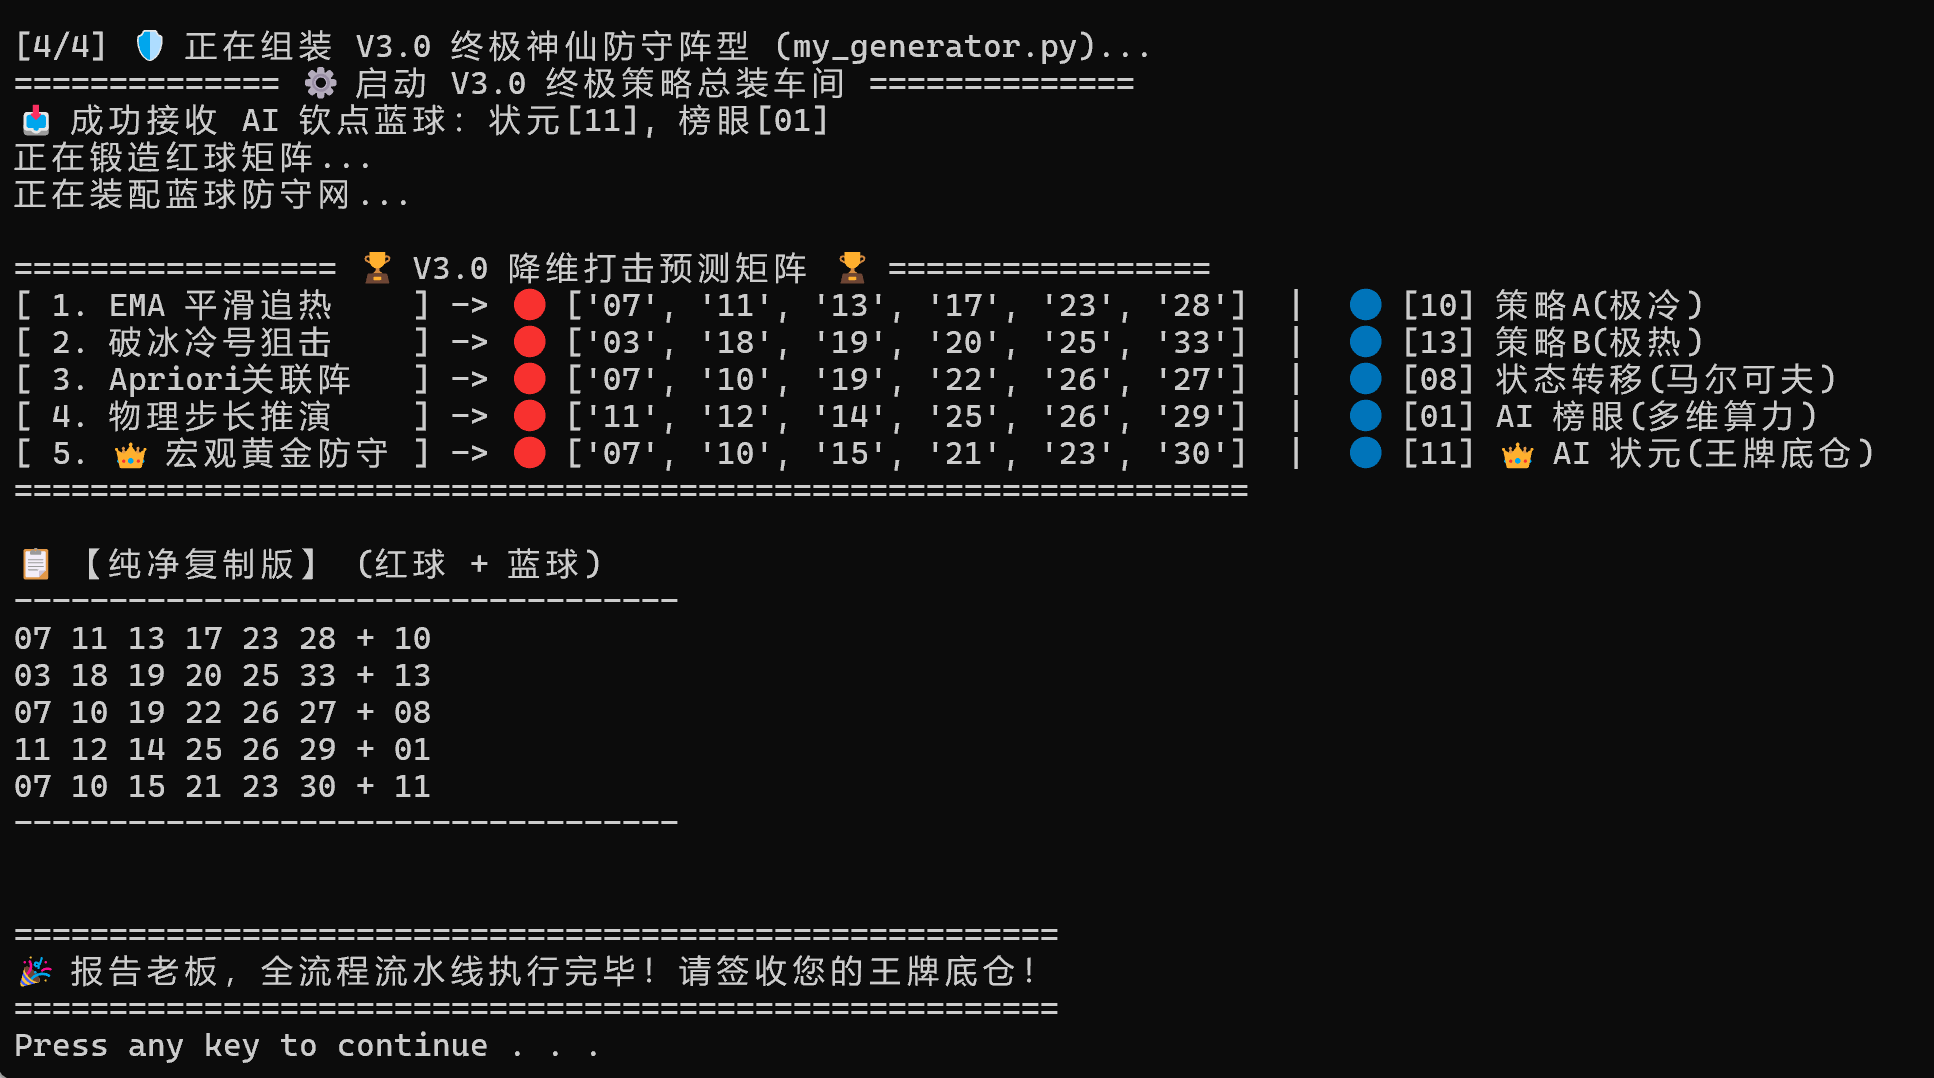
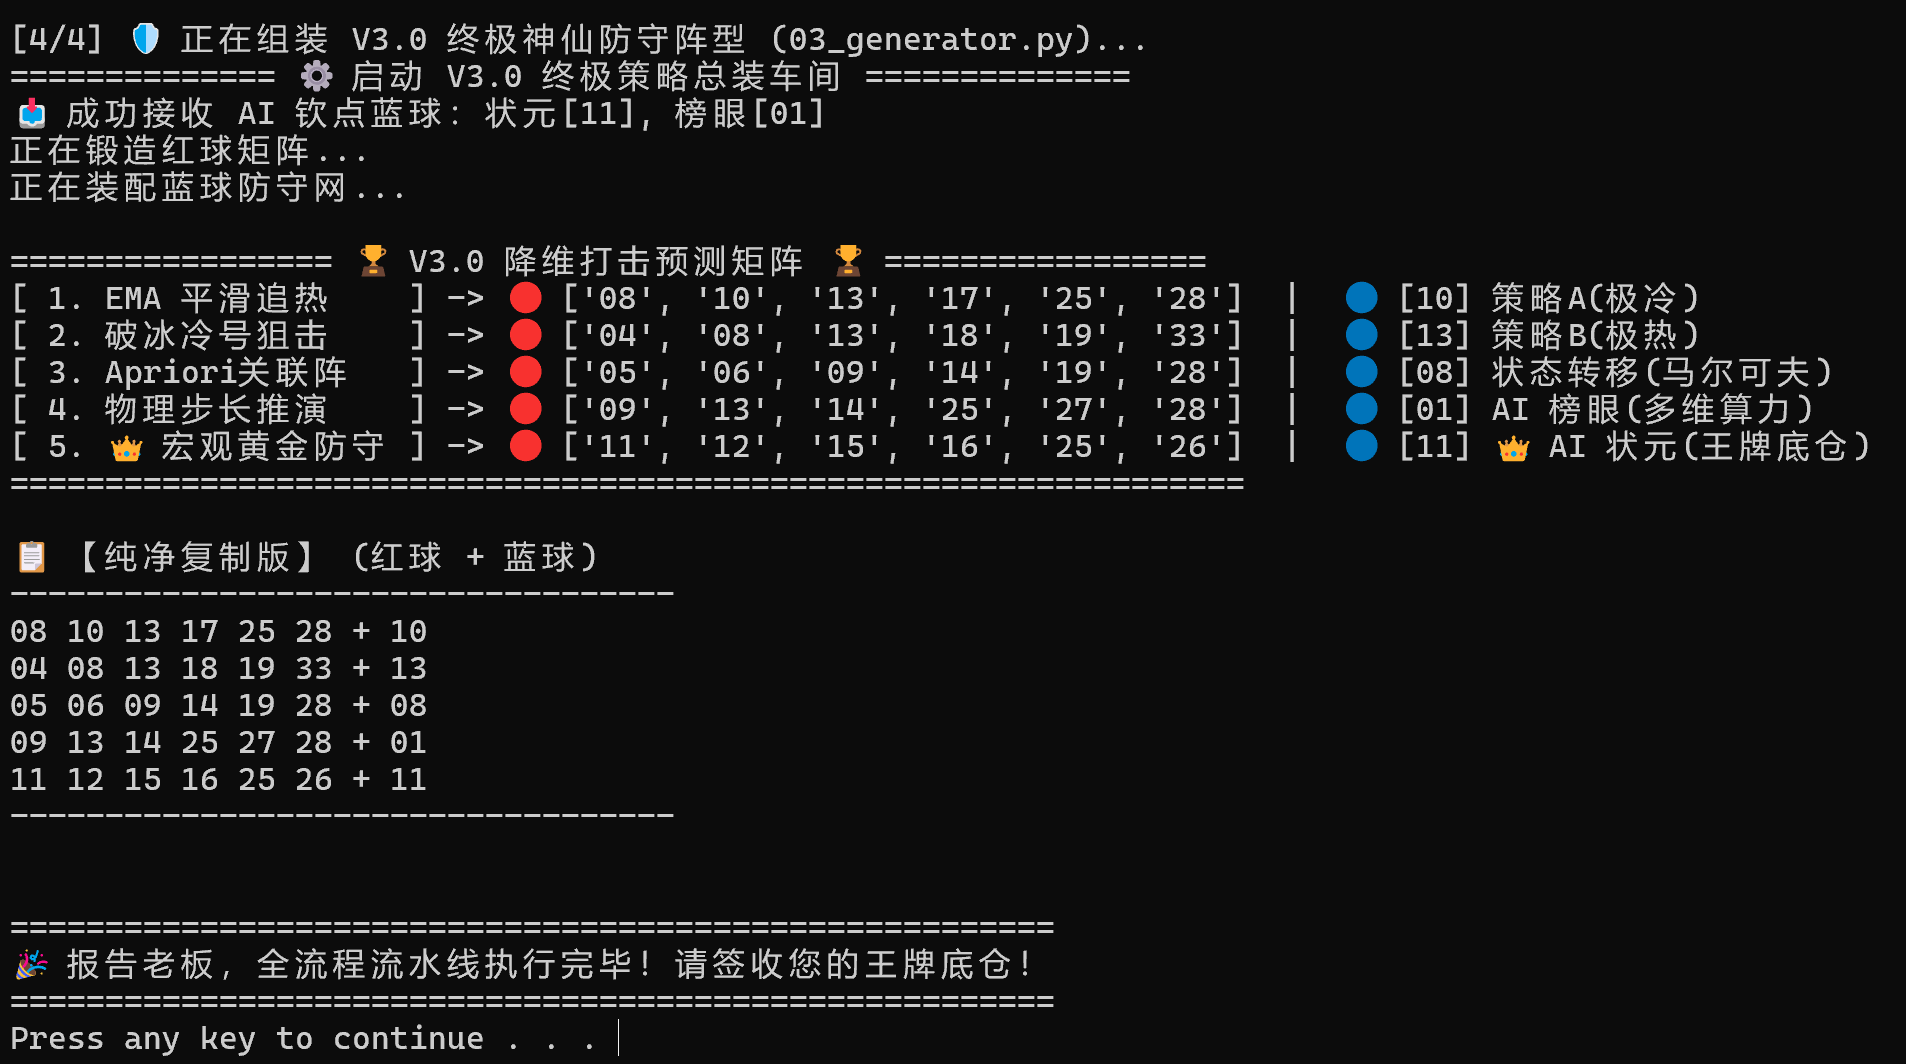
✨ 优化: 增加 VPN 代理冲突的异常捕获，更新并美化了README 指南

diff --git a/01_get_data.py b/01_get_data.py
@@ -1,75 +1,120 @@
-# -*- coding:utf-8 -*-
-"""
-V3.0 数据抓取引擎 (双色球专属极简版)
-"""
+import os
+import sys
+import time
 import requests
+import urllib3
 import pandas as pd
 from bs4 import BeautifulSoup
 from loguru import logger
-import os
 
-from config import name_path, data_file_name
-import urllib3
-
+# 禁用烦人的 SSL 证书警告 (因为使用了 verify=False)
 urllib3.disable_warnings(urllib3.exceptions.InsecureRequestWarning)
 
+# 500彩票网数据源
+BASE_URL = "https://datachart.500.com/ssq/"
 
-def get_url():
-    """获取 500彩票网 的数据接口"""
-    # 直接硬编码双色球 ssq 路径
-    url = "https://datachart.500.com/ssq/history/"
-    path = "newinc/history.php?start={}&end="
-    return url, path
+
+def safe_request(url):
+    """
+    🛡 核心防盾：带 VPN 冲突检测的网络请求包装器
+    """
+    try:
+        # 强制清空 Python 运行时的代理环境变量 (防呆不防傻)
+        os.environ["http_proxy"] = ""
+        os.environ["https_proxy"] = ""
+
+        # 发起请求
+        r = requests.get(url, verify=False, timeout=15)
+        r.raise_for_status()
+        r.encoding = 'gbk'  # 500彩票网是 GBK 编码
+        return r
+
+    except Exception as e:
+        error_msg = str(e)
+        # 精准捕获 ProxyError 或底层的 FileNotFoundError (urllib3 代理 Bug)
+        if "ProxyError" in error_msg or "FileNotFoundError" in error_msg or "Max retries exceeded" in error_msg:
+            logger.error("\n" + "!" * 65)
+            logger.error("🚨 [拦截警告] 发现网络代理冲突 (ProxyError)！")
+            logger.error("👉 案发原因：系统检测到您当前开启了 VPN (梯子) 或系统代理。")
+            logger.error("👉 目标阻断：500 彩票网是国内数据源，开启代理会导致底层握手崩溃。")
+            logger.error("🛠 解决方法：请在电脑右下角【彻底退出 VPN / 代理软件】，然后重新运行！")
+            logger.error("!" * 65 + "\n")
+        else:
+            logger.error(f"\n❌ 网络请求发生未知错误：\n{error_msg}\n请检查网络连接后重试。")
+
+        # 抛出异常后优雅退出程序，不显示满屏红字报错
+        sys.exit(1)
 
 
 def get_current_number():
-    """获取最新一期期号"""
-    url, _ = get_url()
-    r = requests.get(f"{url}history.shtml", verify=False)
-    r.encoding = "gb2312"
-    soup = BeautifulSoup(r.text, "lxml")
-    current_num = soup.find("div", class_="wrap_datachart").find("input", id="end")["value"]
-    return current_num
+    """获取最近一期的开奖期号"""
+    url = f"{BASE_URL}history/history.shtml"
+    r = safe_request(url)
+
+    soup = BeautifulSoup(r.text, 'lxml')
+    tbody = soup.find('tbody', id='tdata')
+    if not tbody:
+        logger.error("❌ 无法解析网页，500彩票网可能更新了页面结构！")
+        sys.exit(1)
+
+    # 获取第一行数据（最新一期）
+    latest_tr = tbody.find('tr')
+    issue = latest_tr.find_all('td')[0].text.strip()
+    return issue
 
 
-def spider(start, end):
-    """核心爬虫逻辑"""
-    url, path = get_url()
-    url = f"{url}{path.format(start)}{end}"
-    r = requests.get(url=url, verify=False)
-    r.encoding = "gb2312"
-    soup = BeautifulSoup(r.text, "lxml")
-    trs = soup.find("tbody", attrs={"id": "tdata"}).find_all("tr")
+def get_all_data():
+    """拉取全网历史开奖数据"""
+    logger.info("🕷 正在全网拉取最新开奖数据 (01_get_data.py)...")
 
-    data = []
+    # 获取近 10000 期的接口（相当于全量拉取）
+    url = f"{BASE_URL}history/newinc/history.php?start=00001&end=99999"
+    r = safe_request(url)
+
+    soup = BeautifulSoup(r.text, 'lxml')
+    tbody = soup.find('tbody', id='tdata')
+
+    if not tbody:
+        logger.error("❌ 历史数据拉取失败！")
+        sys.exit(1)
+
+    trs = tbody.find_all('tr', class_=['t_tr1', 't_tr2'])
+
+    data_list = []
     for tr in trs:
-        item = dict()
-        item["期数"] = tr.find_all("td")[0].get_text().strip()
-        for i in range(6):
-            item[f"红球_{i + 1}"] = tr.find_all("td")[i + 1].get_text().strip()
-        item["蓝球"] = tr.find_all("td")[7].get_text().strip()
-        data.append(item)
+        tds = tr.find_all('td')
+        if len(tds) < 8:
+            continue
 
-    df = pd.DataFrame(data)
-    # 直接存入 config 中配置的根目录
-    save_path = os.path.join(name_path["ssq"]["path"], data_file_name)
-    df.to_csv(save_path, encoding="utf-8", index=False)
+        # 提取期号、红球 1-6、蓝球
+        issue = tds[0].text.strip()
+        reds = [td.text.strip() for td in tds[1:7]]
+        blue = tds[7].text.strip()
+
+        row_data = [issue] + reds + [blue]
+        data_list.append(row_data)
+
+    # 组装为 DataFrame 格式
+    columns = ['Issue', 'R1', 'R2', 'R3', 'R4', 'R5', 'R6', 'B1']
+    df = pd.DataFrame(data_list, columns=columns)
+
+    # 按照期号升序排列 (最老的在最上面，最新的在最下面)
+    df = df.sort_values(by='Issue').reset_index(drop=True)
+
+    # 保存到本地 CSV
+    df.to_csv('data.csv', index=False, encoding='utf-8')
+    logger.info(f"✅ 成功截获 {len(df)} 期历史开奖数据！已封存至 data.csv")
     return df
 
 
 def run():
+    """主控流水线"""
+    # 尝试获取最新期号并测试网络
     current_number = get_current_number()
-    play_name = name_path["ssq"]["name"]
-    logger.info(f"【{play_name}】最新开奖期号：{current_number}")
-    logger.info(f"📡 正在全网拉取【{play_name}】历史数据...")
+    logger.info(f"🎯 探针回传：当前最新期号为 [{current_number}]")
 
-    data = spider(1, current_number)
-
-    # 验证扁平化目录下的 data.csv 是否生成成功
-    if data_file_name in os.listdir(name_path["ssq"]["path"] or "."):
-        logger.info(f"✅ 【{play_name}】数据同步完毕！共拦截 {len(data)} 期历史情报。")
-    else:
-        logger.error("❌ 数据写入失败，请检查目录权限！")
+    # 开始全量拉取
+    get_all_data()
 
 
 if __name__ == "__main__":

diff --git a/README.md b/README.md
@@ -7,7 +7,7 @@
 
 
 
-![Python Version](https://img.shields.io/badge/Python-3.8%2B-blue.svg)
+![Python Version](https://img.shields.io/badge/Python-3.7%2B-blue.svg)
 
 ![Machine Learning](https://img.shields.io/badge/AI-RandomForest-orange.svg)
 
@@ -18,7 +18,7 @@
 
 
 > **放弃幻想，拥抱量化。**
-本项目彻底抛弃了传统“黑盒深度学习盲目预测白噪音”的低效方案，重构为一套**逻辑透明、多维特征融合、严格防守**的工业级“白盒”量化预测流水线。
+>本项目彻底抛弃了传统“黑盒深度学习盲目预测白噪音”的低效方案，重构为一套**逻辑透明、多维特征融合、严格防守**的工业级“白盒”量化预测流水线。
 
 
 
@@ -247,7 +247,15 @@ cd SSQ_Quant_Predictor
 
 
 
-### 📦 Step 3: 安装依赖包
+### ⚠ 运行前必看提示
+> **🚫 请务必关闭 VPN / 梯子 / 代理软件！**
+> 本项目需要高频直连国内的“500 彩票网”拉取历史数据。如果你开启了网络代理，会导致底层网络库握手失败，引发 `ProxyError` 或 `FileNotFoundError`。
+>开启网络代理也会使pip命令报错
+> **运行前请确保处于纯净的国内直连网络环境下！**
+
+
+
+### 📦Step 3: 安装依赖包
 
 这一步相对简单，直接接着上一步操作，继续输入并回车：
 ```bash
@@ -260,8 +268,6 @@ pip install -r requirements.txt
 ### ⚡ Step 4: 一键启动流水线
 
 - **Windows 用户**：以上完成之后可以退出Anaconda,直接双击运行 `run_pipeline.bat`这个批处理程序即可，以后再次使用也是直接双击运行即可,会自动进入虚拟环境然后运行程序。
-
-> **温馨提示**：若提示 `'git' 不是内部或外部命令`，需先去官网 ([https://git-scm.com/download/win](https://git-scm.com/download/win)) 下载 64-bit 安装包，一路 Next 安装完。然后重启 Anaconda Prompt，重新执行 `conda activate lottery` 后再来一遍即可。
 
 - **Mac/Linux 用户** 以及想想体验逐步运行感觉的Windows用户：
 依次继续在终端执行以下命令：
@@ -284,7 +290,7 @@ python 03_generator.py
 
 ```
 
-如果`01_get_data.py`出现解析错误，看看网页 http://datachart.500.com/ssq/history/newinc/history.php 是否可以正常访问，这是爬虫数据来源
+> **温馨提示**：如果`01_get_data.py`出现解析错误，看看网页 http://datachart.500.com/ssq/history/newinc/history.php 是否可以正常访问，再关闭VPN和网络代理，这是爬虫数据来源
 
 执行完毕后，系统将展示优雅的控制台 UI，并在最下方提供【纯净复制版】供你直接提取 5 注预测号码！
 
